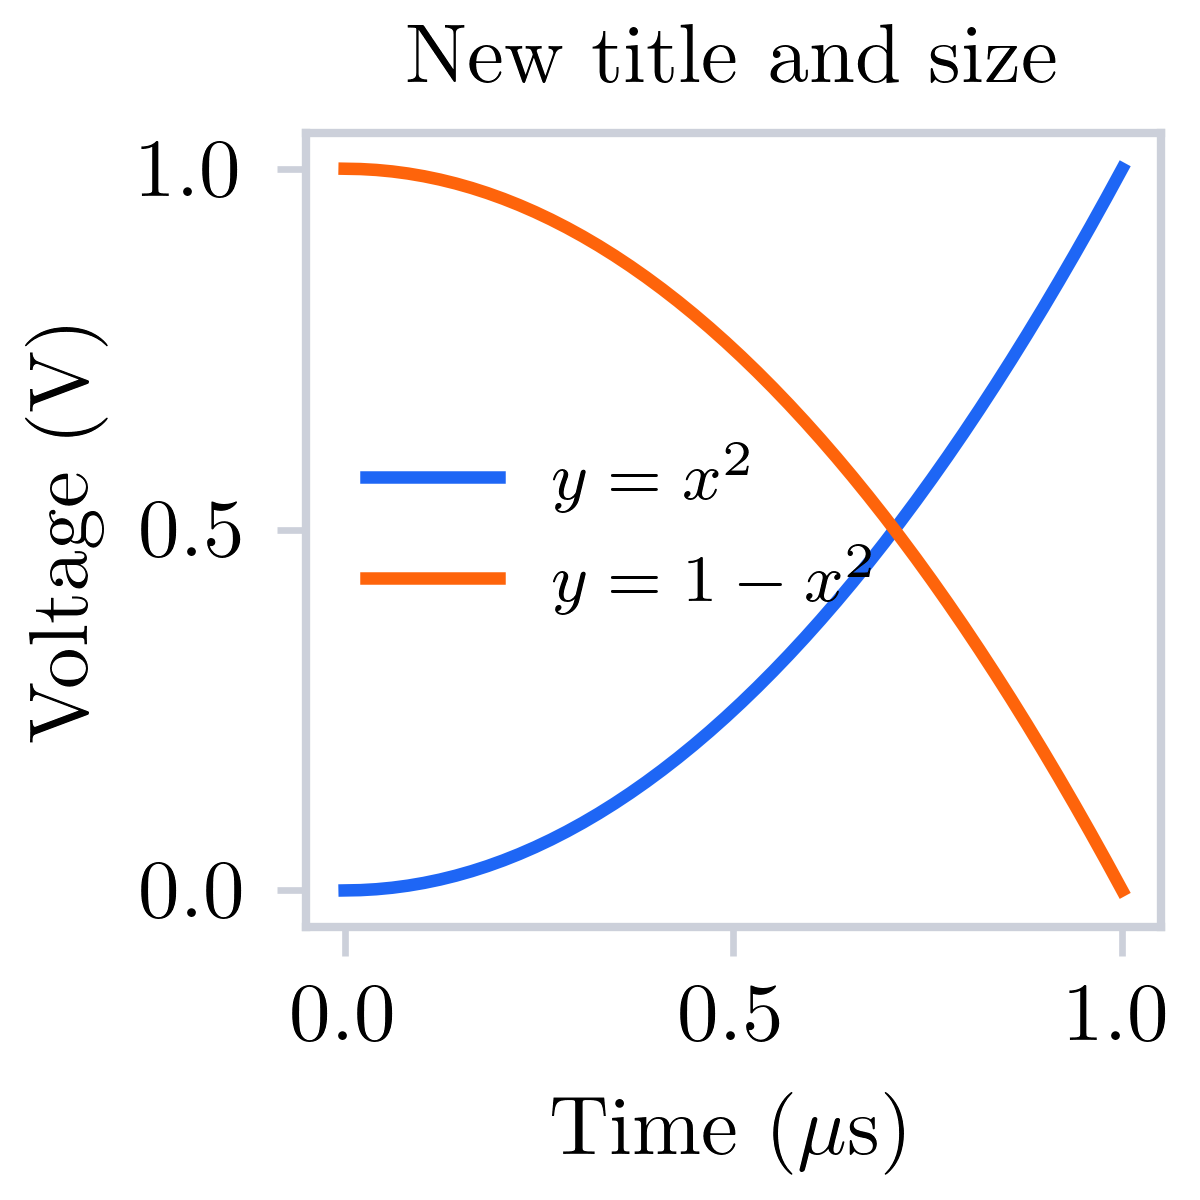
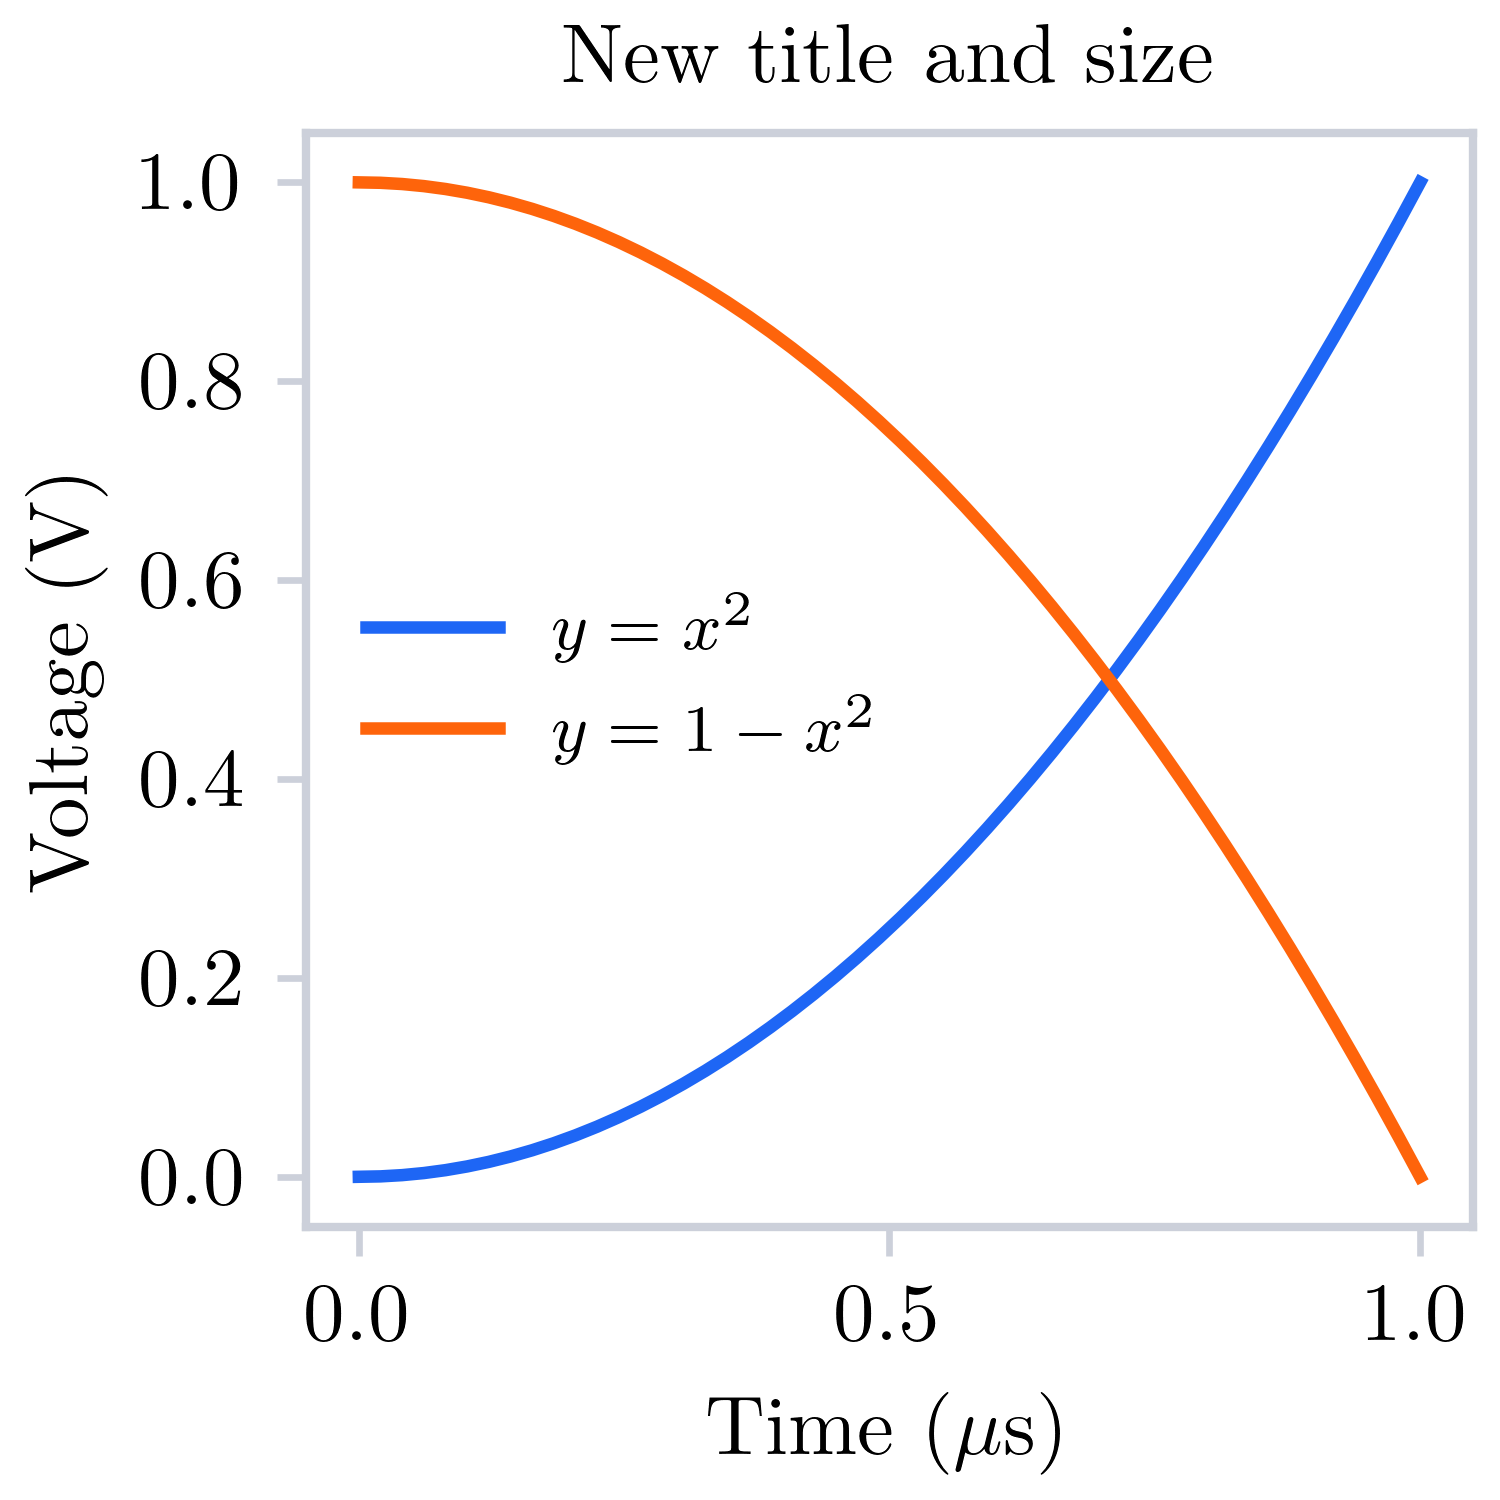
Fix after figure

diff --git a/test/fig_format.py b/test/fig_format.py
@@ -11,5 +11,5 @@ fig.savefig(save_dir / "fig_format_before", format=["png","fig"])
 
 fig = plt.load(save_dir / "fig_format_before.fig")
 plt.title("New title and size")
-plt.set_size(width=2, aspect="square")
+plt.set_size(width=2.5, aspect="square")
 fig.savefig(save_dir / "fig_format_after.png")
